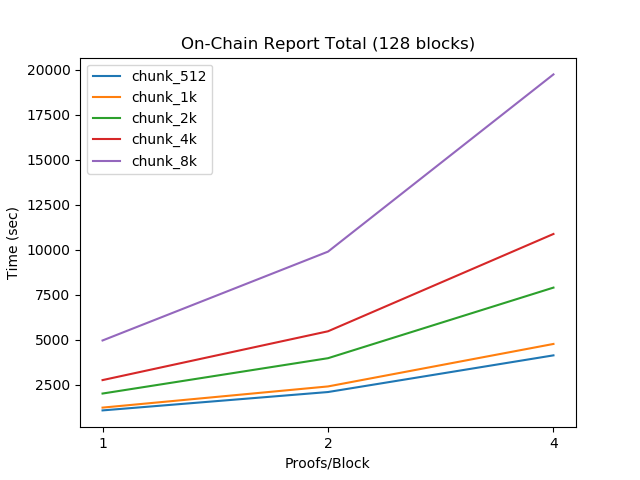
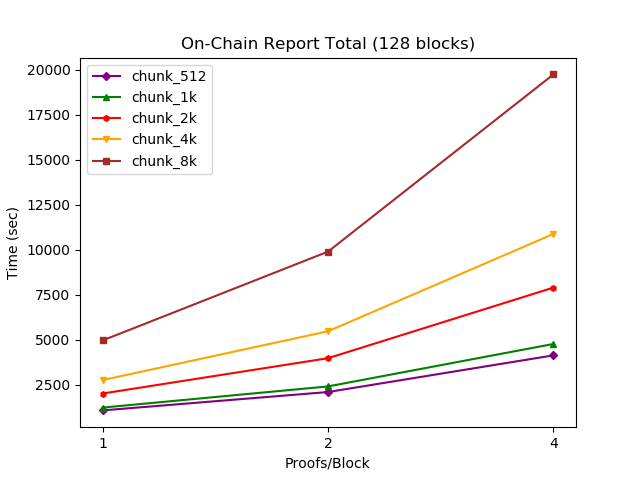
fixing diagrams

diff --git a/experiments/blockreport/measurements/diagrams.py b/experiments/blockreport/measurements/diagrams.py
@@ -1,31 +1,48 @@
 import matplotlib.pyplot as plt
 
 
-source_file = "zkproofs.csv"
-#with open(source_file, 'r') as fp:
-#    fp.readline()
-#    x = ["1", "2", "4"]
-#    ys = {}
-#    for line in fp:
-#        tokens = line.split(",")
-#        ys[tokens[0]] = [int(x) for x in tokens[1:]]
-#    for key in ys.keys():
-#        plt.plot(x, ys[key], label="chunk_"+key)
-#    #plt.grid()
-#    plt.legend()
-#    plt.show()
+source_file = "total.csv"
+colors = {
+    "512": 'purple',
+    "1k": 'green',
+    "2k": 'red',
+    "4k": 'orange',
+    "8k": 'brown'
+}
+markers = {
+    "512": 'D',
+    "1k": '^',
+    "2k": 'h',
+    "4k": 'v',
+    "8k": 's'
+}
+with open(source_file, 'r') as fp:
+    fp.readline()
+    x = ["1", "2", "4"]
+    ys = {}
+    for line in fp:
+        tokens = line.split(",")
+        ys[tokens[0]] = [int(x)/1000 for x in tokens[1:]]
+    for key in ys.keys():
+        plt.plot(x, ys[key], color=colors[key], marker=markers[key], markersize=4, label="chunk_"+key)
+    #plt.grid()
+    plt.title("On-Chain Report Total (128 blocks)")
+    plt.xlabel("Proofs/Block")
+    plt.ylabel("Time (sec)")
+    plt.legend()
+    plt.show()
 
 # ram usage
 #x = ["512", "1k", "2k", "4k", "8k"]
 #y = [1.2, 1.6, 2.3, 3.7, 6.9]
 # gas cost
-x = ["1", "2", "4", "8"]
-y = [284749, 541795, 1055776, 2083932]
+#x = ["1", "2", "4", "8"]
+#y = [284749, 541795, 1055776, 2083932]
 #plt.bar(x, y, width=0.4)
 #plt.show()
 
 # and something interesting
 #x = ["chunk_1k\n8_proofs", "chunk_2k\n4_proofs", "chunk_4k\n2_proofs", "chunk_8k\n1_proof"]
 #y = [i//60000 for i in [9476251, 7888804, 5461012, 4950213]]
-plt.bar(x, y, width=0.4)
-plt.show()
+#plt.bar(x, y, width=0.4)
+#plt.show()

diff --git a/experiments/client/measurements/diagram.py b/experiments/client/measurements/diagram.py
@@ -1,34 +1,51 @@
 import matplotlib.pyplot as plt
 
-source_file = "times.csv"
+source_file = "times_no_wait.csv"
 
 values = {}
 colors = {
     "not_modified": 'blue',
-    "chunk_512": 'orange',
+    "chunk_512": 'purple',
     "chunk_1k": 'green',
     "chunk_2k": 'red',
-    "chunk_4k": 'purple',
+    "chunk_4k": 'orange',
     "chunk_8k": 'brown'
+}
+markers = {
+    "not_modified": '',
+    "chunk_512": 'D',
+    "chunk_1k": '^',
+    "chunk_2k": 'h',
+    "chunk_4k": 'v',
+    "chunk_8k": 's'
 }
 # read measured time from source file
 with open(source_file, 'r') as fp:
     categories = fp.readline().split(",")[1:]
     for line in fp:
         tokens = line.split(",")
-        values[tokens[0]] = [int(v) for v in tokens[1:]]
+        values[tokens[0]] = [int(v)/1000 for v in tokens[1:]]
 #print(values)
 
 # plot total time
 for k in values.keys():
-    plt.plot(categories[:5], values[k][:5], color=colors[k], label=k)
+    plt.plot(categories[:5], values[k][:5], color=colors[k], marker=markers[k], markersize=4, label=k)
+plt.title("Client file upload (total time)")
+plt.xlabel("File Size")
+plt.ylabel("Time (sec)")
+plt.ylim(0)
 plt.legend()
 plt.show()
 
 # plot the merkle tree creation time
-for k in values.keys():
+"""for k in values.keys():
     if k == "not_modified":
         continue
-    plt.plot(categories[:5], values[k][5:], color=colors[k], label=k)
+    plt.plot(categories[:5], values[k][5:], color=colors[k], marker=markers[k], markersize=4, label=k)
+plt.title("Time spent creating Merkle trees")
+plt.xlabel("File Size")
+plt.ylabel("Time (sec)")
+plt.ylim(0)
 plt.legend()
 plt.show()
+"""

diff --git a/experiments/hashes/diagram.py b/experiments/hashes/diagram.py
@@ -1,0 +1,33 @@
+import matplotlib.pyplot as plt
+
+source_file = "proof.csv"
+
+hash_functions = ["BLAKE2s", "SHA2", "SHA3"]
+
+colors = {
+    "BLAKE2s": 'b',
+    "SHA-256": 'r',
+    "SHA-3": 'g'
+}
+
+markers = {
+    "BLAKE2s": 's',
+    "SHA-256": 'D',
+    "SHA-3": 'o'
+}
+
+with open(source_file, 'r') as fp:
+    fp.readline()
+    x = ["64_bytes", "128_bytes", "256_bytes", "512_bytes", "1_kbyte"]
+    ys = {}
+    for line in fp:
+        tokens = line.split(",")
+        ys[tokens[0]] = [int(x)/1000 for x in tokens[1:]]
+    for key in ys.keys():
+        plt.plot(x, ys[key], color=colors[key], marker=markers[key], markersize=4, label=key)
+    #plt.grid()
+    plt.title("ZK-Proof of computation of a Hash Function")
+    plt.xlabel("Input Size")
+    plt.ylabel("Time (sec)")
+    plt.legend()
+    plt.show()

diff --git a/hadoop-2.8.5-src/hadoop-hdfs-project/hadoop-hdfs-extras/src/main/java/org/apache/hadoop/blockchain/Data.java b/hadoop-2.8.5-src/hadoop-hdfs-project/hadoop-hdfs-extras/src/main/java/org/apache/hadoop/blockchain/Data.java
@@ -1,4 +1,4 @@
-package org.apache.hadoop.blockchain;
+package dnode;
 
 import io.reactivex.Flowable;
 import io.reactivex.functions.Function;
